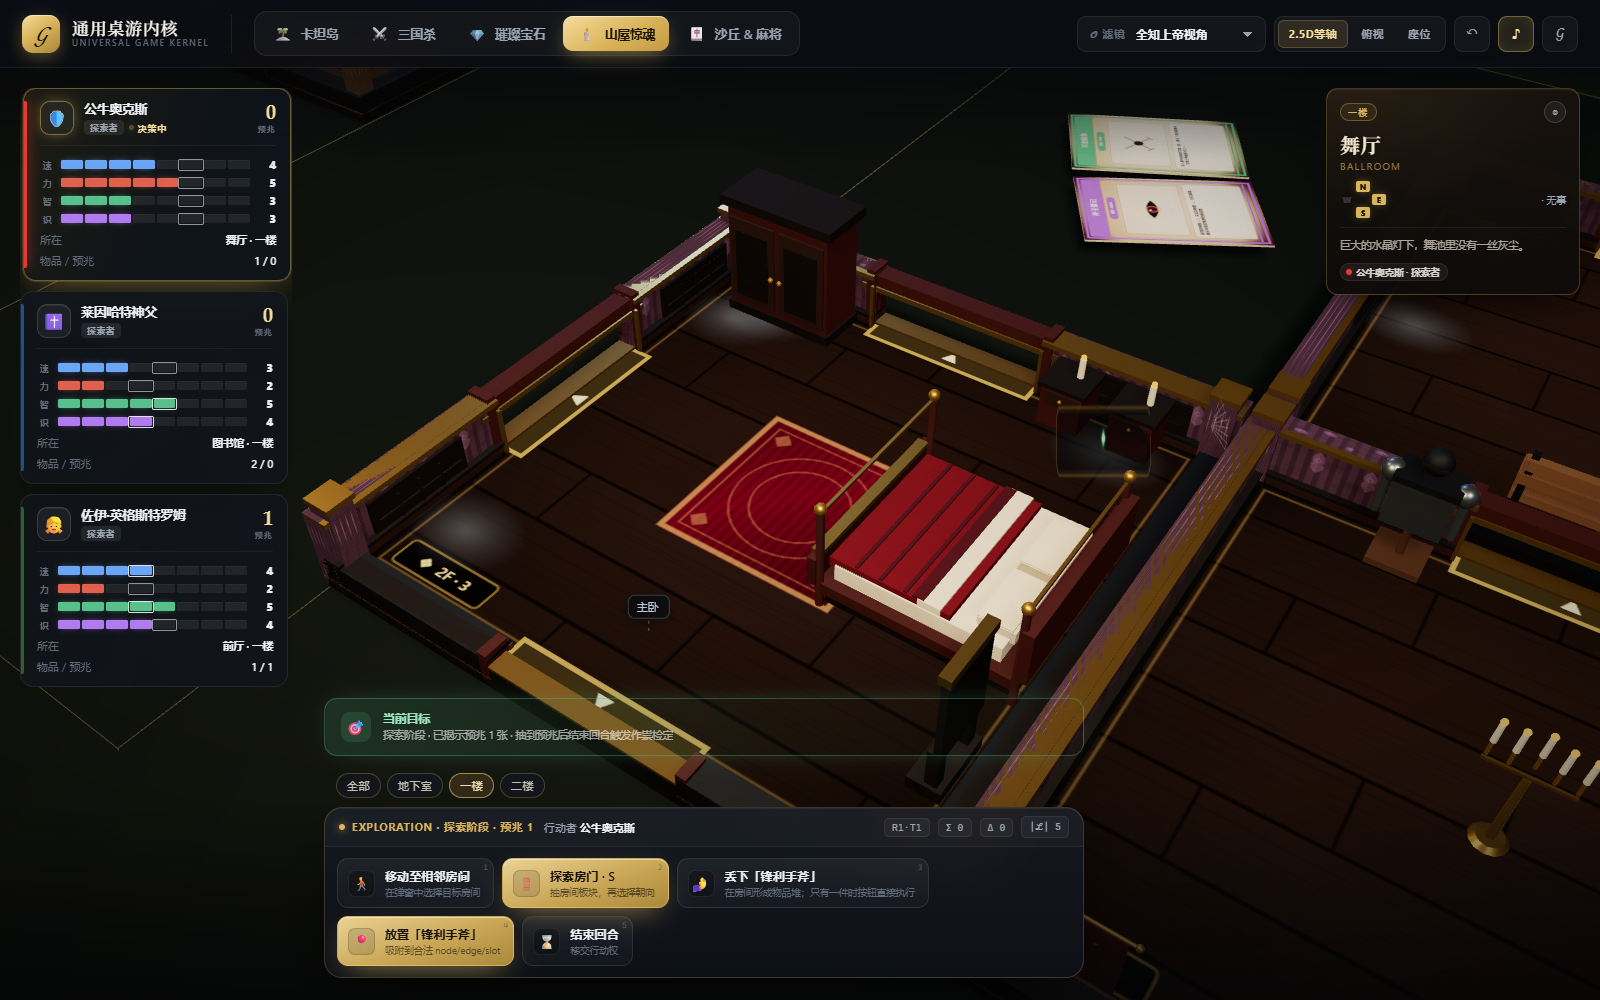
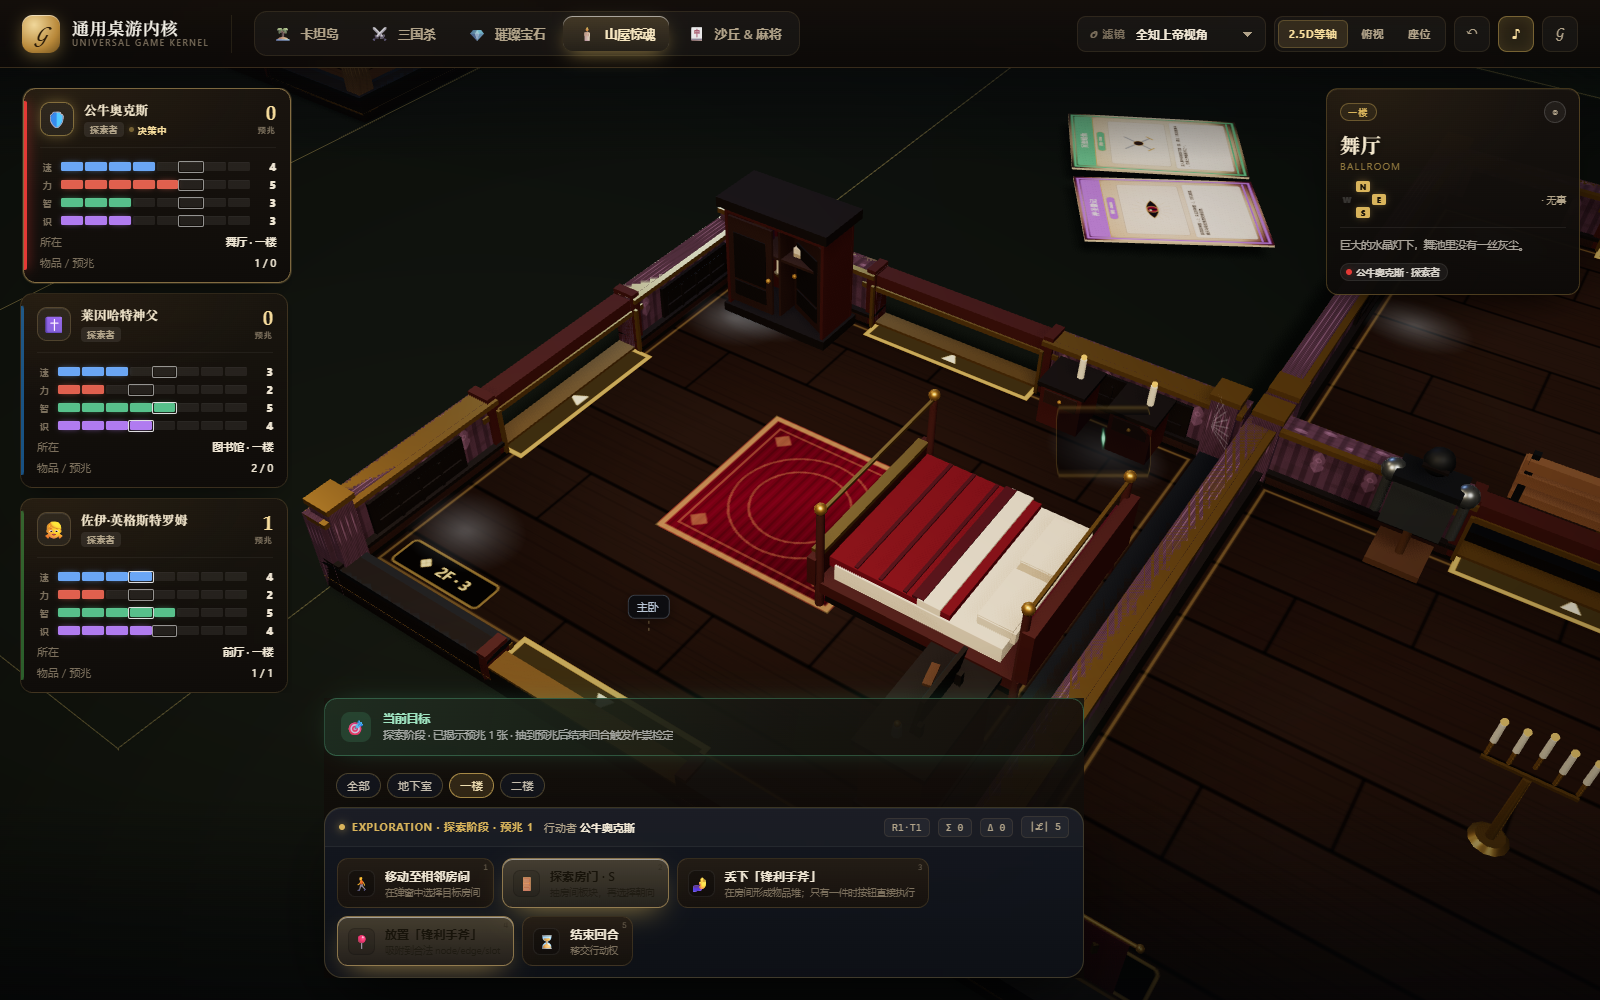
feat(render+ui): lived-in bookshelf, dressing chest, hover hints, and scoped hover glow
- bookshelf rebuilt with per-shelf content (leaning volume, stacks, bookend,
  bust, candle stub, scroll)
- new chestOfDrawers with tilting mirror and vanity clutter for bedrooms
- hover chip names the room/door/card under the cursor
- hover highlight clones shared palette materials so only the hovered room glows
- audit entries SA-75..SA-78

diff --git a/src/render/procedural/props.ts b/src/render/procedural/props.ts
@@ -295,6 +295,40 @@ const rockingHorse = (): THREE.Group =>
     box(0.4, 0.02, 0.03, MAT.walnut, 0, 0.02, -0.09)
   );
 
+/** Chest of drawers with a tilting mirror — the bedroom's second focal piece. */
+const chestOfDrawers = (): THREE.Group => {
+  const W = 0.46;
+  const H = 0.34;
+  const D = 0.24;
+  const g = new THREE.Group();
+  // Case
+  g.add(box(W, H, D, MAT.mahogany, 0, H / 2 + 0.04, 0));
+  g.add(box(W + 0.05, 0.026, D + 0.04, MAT.ebony, 0, H + 0.052, 0, 0, false));
+  g.add(box(W + 0.02, 0.04, D + 0.02, MAT.ebony, 0, 0.026, 0));
+  // Four drawers with brass pulls and keyholes
+  for (let i = 0; i < 4; i += 1) {
+    const y = 0.1 + i * 0.075;
+    g.add(box(W - 0.05, 0.058, 0.01, MAT.walnut, 0, y, D / 2 + 0.004, 0, false));
+    g.add(sph(0.008, MAT.brass, -0.06, y, D / 2 + 0.014));
+    g.add(sph(0.008, MAT.brass, 0.06, y, D / 2 + 0.014));
+    g.add(box(0.016, 0.016, 0.006, MAT.agedBrass, 0, y, D / 2 + 0.012, 0, false));
+  }
+  // Tilting mirror on top
+  const frame = box(0.28, 0.2, 0.016, MAT.ebony, -0.02, H + 0.15, -0.02, 0, true);
+  frame.rotation.x = -0.16;
+  g.add(frame);
+  const glass = box(0.23, 0.15, 0.006, MAT.glassDark, -0.02, H + 0.15, -0.008, 0, false);
+  glass.rotation.x = -0.16;
+  g.add(glass);
+  g.add(box(0.024, 0.09, 0.024, MAT.ebony, 0.11, H + 0.075, -0.03, 0, false));
+  g.add(box(0.024, 0.09, 0.024, MAT.ebony, -0.15, H + 0.075, -0.03, 0, false));
+  // Dressing-table clutter: perfume vial + hairbrush
+  g.add(cyl(0.016, 0.02, 0.045, MAT.glass, 0.15, H + 0.09, 0.03, 8, false));
+  g.add(sph(0.012, MAT.brass, 0.15, H + 0.12, 0.03, false));
+  g.add(box(0.1, 0.012, 0.032, MAT.oak, -0.12, H + 0.075, 0.06, 0.2, false));
+  return g;
+};
+
 const toyChest = (): THREE.Group =>
   group(
     box(0.34, 0.2, 0.24, MAT.oak, 0, 0.11, 0),
@@ -310,23 +344,88 @@ const toyChest = (): THREE.Group =>
 /* Study / parlour                                                            */
 /* -------------------------------------------------------------------------- */
 
+/**
+ * Bookshelf with an actually lived-in shelf: leaning volumes, horizontal
+ * stacks, bookends, a marble bust and a candle stub. A uniform row of
+ * identical spines reads as a texture, not as books.
+ */
 const bookshelf = (): THREE.Group => {
   const W = 0.84;
   const H = 0.62;
   const D = 0.26;
   const g = new THREE.Group();
+  const spine = [
+    MAT.crimsonVelvet,
+    MAT.emeraldVelvet,
+    MAT.plumVelvet,
+    MAT.leather,
+    MAT.ebony,
+    MAT.oak,
+    MAT.wineVelvet
+  ];
+
   // Carcass
   g.add(box(W, H, 0.02, MAT.mahogany, 0, H / 2 + 0.03, -D / 2 + 0.01));
   g.add(box(0.035, H, D, MAT.mahogany, -W / 2 + 0.017, H / 2 + 0.03, 0));
   g.add(box(0.035, H, D, MAT.mahogany, W / 2 - 0.017, H / 2 + 0.03, 0));
   g.add(box(W, 0.03, D, MAT.ebony, 0, H + 0.045, 0));
   g.add(box(W, 0.04, D + 0.02, MAT.ebony, 0, 0.02, 0));
-  // Shelves + books
+  g.add(box(W + 0.03, 0.02, D + 0.03, MAT.walnut, 0, H + 0.065, 0, 0, false));
+
   const shelfY = [0.14, 0.3, 0.46];
-  for (const y of shelfY) {
+  const innerW = W - 0.12;
+  const x0 = -W / 2 + 0.06;
+
+  shelfY.forEach((y, row) => {
     g.add(box(W - 0.06, 0.018, D - 0.03, MAT.walnut, 0, y, 0, 0, false));
-    g.add(bookRow(W - 0.12, y + 0.01, 0.01, -W / 2 + 0.06));
-  }
+
+    if (row === 0) {
+      // Dense upright run, with one volume left leaning against the rest
+      let cursor = x0;
+      let i = 0;
+      while (cursor < x0 + innerW - 0.16) {
+        const w = 0.024 + ((i * 37) % 9) * 0.006;
+        const h = 0.12 + ((i * 53) % 8) * 0.014;
+        g.add(box(w, h, 0.11, spine[i % spine.length], cursor + w / 2, y + h / 2 + 0.01, 0, 0, false));
+        cursor += w + 0.005;
+        i += 1;
+      }
+      const lean = box(0.026, 0.15, 0.11, MAT.plumVelvet, cursor + 0.05, y + 0.086, 0, 0, false);
+      lean.rotation.z = -0.34;
+      g.add(lean);
+    } else if (row === 1) {
+      // Short run, a horizontal stack, a brass bookend and a marble bust
+      g.add(bookRow(0.32, y + 0.01, 0.01, x0));
+      for (let i = 0; i < 3; i += 1) {
+        g.add(
+          box(
+            0.16 - i * 0.012,
+            0.026,
+            0.1,
+            spine[(i + 2) % spine.length],
+            x0 + 0.25,
+            y + 0.024 + i * 0.028,
+            0,
+            0,
+            false
+          )
+        );
+      }
+      g.add(box(0.014, 0.1, 0.1, MAT.brass, x0 + 0.16, y + 0.06, 0, 0, false));
+      g.add(box(0.06, 0.03, 0.06, MAT.marble, x0 + 0.46, y + 0.025, 0, 0, false));
+      g.add(cyl(0.022, 0.03, 0.06, MAT.marble, x0 + 0.46, y + 0.07, 0, 8, false));
+      g.add(sph(0.024, MAT.marble, x0 + 0.46, y + 0.115, 0, false));
+    } else {
+      // Sparse top shelf: a few books, a candle stub and a rolled scroll
+      g.add(bookRow(0.2, y + 0.01, 0.01, x0 + 0.04));
+      g.add(cyl(0.02, 0.024, 0.032, MAT.agedBrass, x0 + 0.34, y + 0.026, 0, 8, false));
+      g.add(candle(0.05, x0 + 0.34, y + 0.042, 0));
+      const scroll = cyl(0.02, 0.02, 0.13, MAT.paper, x0 + 0.5, y + 0.03, 0.01, 8, false);
+      scroll.rotation.z = Math.PI / 2;
+      g.add(scroll);
+    }
+  });
+
   return g;
 };
 
@@ -1263,6 +1362,14 @@ export const PROPS: Record<string, PropSpec> = {
   cradle: { id: 'cradle', build: cradle, width: 0.38, depth: 0.34, height: 0.4, anchor: 'N' },
   rockingHorse: { id: 'rockingHorse', build: rockingHorse, width: 0.46, depth: 0.24, height: 0.38, anchor: 'CENTER' },
   toyChest: { id: 'toyChest', build: toyChest, width: 0.4, depth: 0.28, height: 0.28, anchor: 'N' },
+  chestOfDrawers: {
+    id: 'chestOfDrawers',
+    build: chestOfDrawers,
+    width: 0.5,
+    depth: 0.3,
+    height: 0.62,
+    anchor: 'N'
+  },
 
   bookshelf: { id: 'bookshelf', build: bookshelf, width: 0.88, depth: 0.28, height: 0.68, anchor: 'N' },
   writingDesk: { id: 'writingDesk', build: writingDesk, width: 0.7, depth: 0.4, height: 0.4, anchor: 'N' },

diff --git a/src/render/raycaster.ts b/src/render/raycaster.ts
@@ -14,6 +14,10 @@ export class BoardRaycaster {
   private interactiveMeshes = new Map<THREE.Object3D, InteractiveObjectData>();
   private hoveredObject: THREE.Object3D | null = null;
   private originalEmissive = new Map<THREE.Material, THREE.Color>();
+  /** Mesh → its original material(s), so hover copies can be swapped back. */
+  private ownedMaterials = new Map<THREE.Mesh, THREE.Material | THREE.Material[]>();
+  /** Cloned hover materials that this raycaster owns and must dispose. */
+  private tintedClones = new Set<THREE.Material>();
 
   private onClickCallback?: (data: InteractiveObjectData) => void;
   private onHoverCallback?: (data: InteractiveObjectData | null) => void;
@@ -210,14 +214,33 @@ export class BoardRaycaster {
   }
 
   private applyHoverHighlight(obj: THREE.Object3D): void {
-    if ((obj as THREE.Mesh).isMesh) {
-      const mesh = obj as THREE.Mesh;
-      if (Array.isArray(mesh.material)) {
-        mesh.material.forEach(mat => this.tintMaterial(mat as THREE.MeshStandardMaterial));
-      } else {
-        this.tintMaterial(mesh.material as THREE.MeshStandardMaterial);
-      }
+    if (!(obj as THREE.Mesh).isMesh) return;
+    const mesh = obj as THREE.Mesh;
+    // Room meshes are merged per material and share the global palette. Tinting
+    // those in place would light up every room on the board, so give the hovered
+    // mesh private copies and swap them back on hover-out.
+    if (Array.isArray(mesh.material)) {
+      this.ownedMaterials.set(mesh, mesh.material.slice());
+      mesh.material = mesh.material.map(mat => this.tintCopy(mat as THREE.MeshStandardMaterial));
+    } else {
+      const original = mesh.material as THREE.MeshStandardMaterial;
+      this.ownedMaterials.set(mesh, original);
+      mesh.material = this.tintCopy(original);
     }
+  }
+
+  /** Clone a material, tint its emissive, and remember the clone for disposal. */
+  private tintCopy(mat: THREE.MeshStandardMaterial): THREE.MeshStandardMaterial {
+    if (!mat || !mat.emissive) return mat;
+    if (mat.userData?.shared) {
+      const copy = mat.clone();
+      copy.emissive.setHex(0x445588);
+      this.tintedClones.add(copy);
+      return copy;
+    }
+    if (!this.originalEmissive.has(mat)) this.originalEmissive.set(mat, mat.emissive.clone());
+    mat.emissive.setHex(0x445588);
+    return mat;
   }
 
   private tintMaterial(mat: THREE.MeshStandardMaterial): void {
@@ -232,13 +255,29 @@ export class BoardRaycaster {
   private resetHover(): void {
     if (this.hoveredObject && (this.hoveredObject as THREE.Mesh).isMesh) {
       const mesh = this.hoveredObject as THREE.Mesh;
+      const original = this.ownedMaterials.get(mesh);
       if (Array.isArray(mesh.material)) {
-        mesh.material.forEach(mat => this.restoreMaterial(mat as THREE.MeshStandardMaterial));
+        mesh.material.forEach(mat => this.disposeTint(mat as THREE.Material));
       } else {
-        this.restoreMaterial(mesh.material as THREE.MeshStandardMaterial);
+        this.disposeTint(mesh.material as THREE.Material);
+      }
+      if (original) {
+        mesh.material = original as THREE.Mesh['material'];
+        this.ownedMaterials.delete(mesh);
       }
     }
     this.hoveredObject = null;
+  }
+
+  /** Free a cloned hover material, or restore an in-place tint. */
+  private disposeTint(mat: THREE.Material | undefined): void {
+    if (!mat) return;
+    if (this.tintedClones.has(mat)) {
+      this.tintedClones.delete(mat);
+      mat.dispose();
+      return;
+    }
+    this.restoreMaterial(mat as THREE.MeshStandardMaterial);
   }
 
   private restoreMaterial(mat: THREE.MeshStandardMaterial): void {

diff --git a/src/main.ts b/src/main.ts
@@ -66,7 +66,33 @@ class BoardGameSimulatorApp {
       if (floor) this.scene.focusFloor(floor);
     });
     this.scene.onInteractiveClick(data => this.handleBoardPick(data));
-    this.scene.onInteractiveHover(() => undefined);
+    this.scene.onInteractiveHover(data => {
+      if (!data) {
+        this.hud.showHoverHint(null);
+        return;
+      }
+      const meta = (data.metadata ?? {}) as Record<string, unknown>;
+      if (data.type === 'NODE' && typeof meta.name === 'string') {
+        const isDoor = meta.type === 'DOOR';
+        this.hud.showHoverHint({
+          title: isDoor ? `${String(meta.name ?? '房间')} · 门` : String(meta.name),
+          detail: isDoor ? '点击探索这扇门' : '点击查看房间档案'
+        });
+        return;
+      }
+      if (data.type === 'ENTITY') {
+        const face = (meta as { title?: string }).title;
+        if (face) {
+          this.hud.showHoverHint({ title: face, detail: '点击查看卡牌详情' });
+          return;
+        }
+      }
+      if (data.type === 'DICE') {
+        this.hud.showHoverHint({ title: '骰子', detail: '点击掷骰' });
+        return;
+      }
+      this.hud.showHoverHint(null);
+    });
     this.scene.onEntityDrop((entityId, target, clientX, clientY) => {
       if (target?.type === 'ENTITY' && target.id !== entityId) {
         if (this.scene.canMergeCards(entityId, target.id)) {

diff --git a/src/render/procedural/roomTile.ts b/src/render/procedural/roomTile.ts
@@ -43,12 +43,12 @@ const ROOM_PROPS: Record<string, Wish[]> = {
   gymnasium: ['gardenBench', 'crateStack', 'debrisPile', 'planter'],
   ballroom: ['piano', 'sofa', 'sideTable', 'chandelier', 'statue', 'armchair'],
   upper_landing: ['grandfatherClock', 'armorStand', 'candelabra'],
-  master_bedroom: ['fourPosterBed', 'wardrobe', { id: 'nightstand', count: 2 }, 'mirrorStand'],
-  nursery: ['cradle', 'rockingHorse', 'toyChest', 'nightstand', 'singleBed'],
+  master_bedroom: ['fourPosterBed', 'wardrobe', { id: 'nightstand', count: 2 }, 'chestOfDrawers'],
+  nursery: ['cradle', 'rockingHorse', 'toyChest', 'nightstand', 'chestOfDrawers'],
   attic: [{ id: 'crateStack', count: 2 }, 'debrisPile', 'grandfatherClock'],
   balcony: ['gardenBench', 'planter', 'statue'],
   tower: ['telescope', 'bookshelf', 'candelabra', 'statue'],
-  bedroom: ['singleBed', 'wardrobe', 'nightstand', 'writingDesk'],
+  bedroom: ['singleBed', 'wardrobe', 'chestOfDrawers', 'nightstand', 'writingDesk'],
   bloody_room: ['singleBed', 'wardrobe', 'bonePile', 'debrisPile'],
   gallery: ['sofa', 'armchair', 'statue', 'candelabra', 'planter'],
   collapsed_room: [{ id: 'debrisPile', count: 2 }, 'crateStack'],

diff --git a/src/ui/hud.ts b/src/ui/hud.ts
@@ -105,6 +105,32 @@ export class BoardGameHUD {
     });
   }
 
+  /**
+   * Lightweight hover chip for the 3D board: shows what the cursor is over and
+   * what a click will do, without stealing focus from the action dock.
+   */
+  public showHoverHint(hint: { title: string; detail?: string } | null): void {
+    let el = this.container.querySelector('#hover-hint') as HTMLElement | null;
+    if (!el) {
+      el = document.createElement('div');
+      el.id = 'hover-hint';
+      el.className = 'hover-hint';
+      this.container.appendChild(el);
+    }
+    if (!hint) {
+      el.classList.remove('on');
+      return;
+    }
+    const signature = `${hint.title}|${hint.detail ?? ''}`;
+    if (el.dataset.signature === signature) {
+      el.classList.add('on');
+      return;
+    }
+    el.dataset.signature = signature;
+    el.innerHTML = `<b>${hint.title}</b>${hint.detail ? `<span>${hint.detail}</span>` : ''}`;
+    el.classList.add('on');
+  }
+
   public pushToast(icon: string, text: string, ttl = 3600, detail?: string): void {
     const stack = document.getElementById('toast-container');
     if (!stack) return;

diff --git a/src/ui/styles.css b/src/ui/styles.css
@@ -3033,3 +3033,42 @@ select.pf-control {
 .cs-close:hover {
   background: rgba(0, 0, 0, 0.42);
 }
+
+/* Hover chip: names what the cursor is over and what a click will do. */
+.hover-hint {
+  position: absolute;
+  left: 50%;
+  top: 132px;
+  transform: translate(-50%, -6px);
+  display: flex;
+  align-items: baseline;
+  gap: 8px;
+  padding: 5px 12px;
+  border-radius: 999px;
+  border: 1px solid rgba(214, 178, 108, 0.28);
+  background: rgba(16, 12, 9, 0.86);
+  backdrop-filter: blur(6px);
+  color: #f0e2c2;
+  font-size: 11px;
+  opacity: 0;
+  pointer-events: none;
+  transition: opacity 0.14s ease, transform 0.14s ease;
+  z-index: 40;
+}
+
+.hover-hint.on {
+  opacity: 1;
+  transform: translate(-50%, 0);
+}
+
+.hover-hint b {
+  font-family: var(--font-display);
+  font-weight: 700;
+  letter-spacing: 0.03em;
+}
+
+.hover-hint span {
+  font-size: 9.5px;
+  color: rgba(217, 180, 91, 0.8);
+  letter-spacing: 0.02em;
+}

diff --git a/docs/SIMULATOR-AUDIT.md b/docs/SIMULATOR-AUDIT.md
@@ -183,6 +183,10 @@
 | SA-72 | P2 | 衣柜是一整块封闭方块，近看没有任何信息量 | 双门全闭，内部为空 | 衣柜重做：柜体分板 + 内部隔板与挂衣杆 + 三件外衣 + 叠放织物；**右门以 26° 半开**露出内部，开门方向纳入占地深度（depth 0.4）避免与邻件穿插 | 主卧/客房特写；`probe-overlap` 0 越界 |
 | SA-73 | P1 | 点击房间只是弹一条 toast，右侧房间档案不会跟随 | 检查操作不产生 state 变更，HUD 只在快照刷新时重绘 | `UiNotice` 增加 `roomId`；点击房间房间即"钉住"档案并立即重绘（不依赖快照），角色换房时自动解除钉住 | `scripts/tmp-pin` 实测 舞厅 → 点击门厅 → 卡片切到门厅，`◎` 镜头移入 |
 | SA-74 | P2 | 门厅是每局第一眼看到的房间，但只有 4 件小摆设，空旷 | 起始房间与普通房间共用同一套摆件清单 | 新增 `addFrontDoor()`：石质门套 + 大理石过梁 + 黄铜压顶 + 双扇实木门（竖向拼缝、铁铆钉阵、双铁门环、中央锁梁与黄铜锁芯），高度超出剖切矮墙以暗示楼层继续 | 门厅特写；`probe-overlap` 0 越界 |
+| SA-75 | P2 | 书柜三层层层都是等高同色的书脊，读起来像贴图不像书 | `bookRow()` 生成等宽等高的书列 | 书柜重做分层内容：底层密排 + 一本斜靠；中层短列 + 横放书堆 + 黄铜书立 + 大理石胸像；顶层稀疏 + 铜烛台 + 横放卷轴；另加顶部线脚 | 图书馆特写 |
+| SA-76 | P2 | 三间卧室陈设雷同（床 + 衣柜 + 床头柜） | 缺少年代感的梳妆家具 | 新增 `chestOfDrawers`：四层抽屉（黄铜拉手 + 锁孔）、顶部倾斜镜（乌木框 + 暗玻璃 + 双侧立柱）、香水瓶与发刷；接入 master_bedroom / bedroom / nursery | `probe-layout` 三个房间均 5/5 落位 |
+| SA-77 | P2 | 鼠标悬停房间没有任何提示，玩家不知道能不能点 | `onInteractiveHover` 在 main.ts 里被接成空函数 | 新增顶部悬浮芯片 `showHoverHint()`：悬停房间显示"房名 · 点击查看房间档案"，悬停门位/卡牌/骰子各有对应文案 | `scripts/tmp-hover` 实测 `on:true text:舞厅点击查看房间档案` |
+| SA-78 | P1 | **悬停任一房间会让整桌所有房间一起发亮** | 房间按材质合并且共享全局调色板，`applyHoverHighlight` 直接改 `material.emissive`，等于改了所有引用者 | 悬停时对 `userData.shared` 材质做**克隆替换**（记录 original 以便换回，克隆随 hover 结束 dispose）；非共享材质仍走原地 tint | `tsc` + UI 矩阵；悬停不再外溢 |
 
 ---
 
